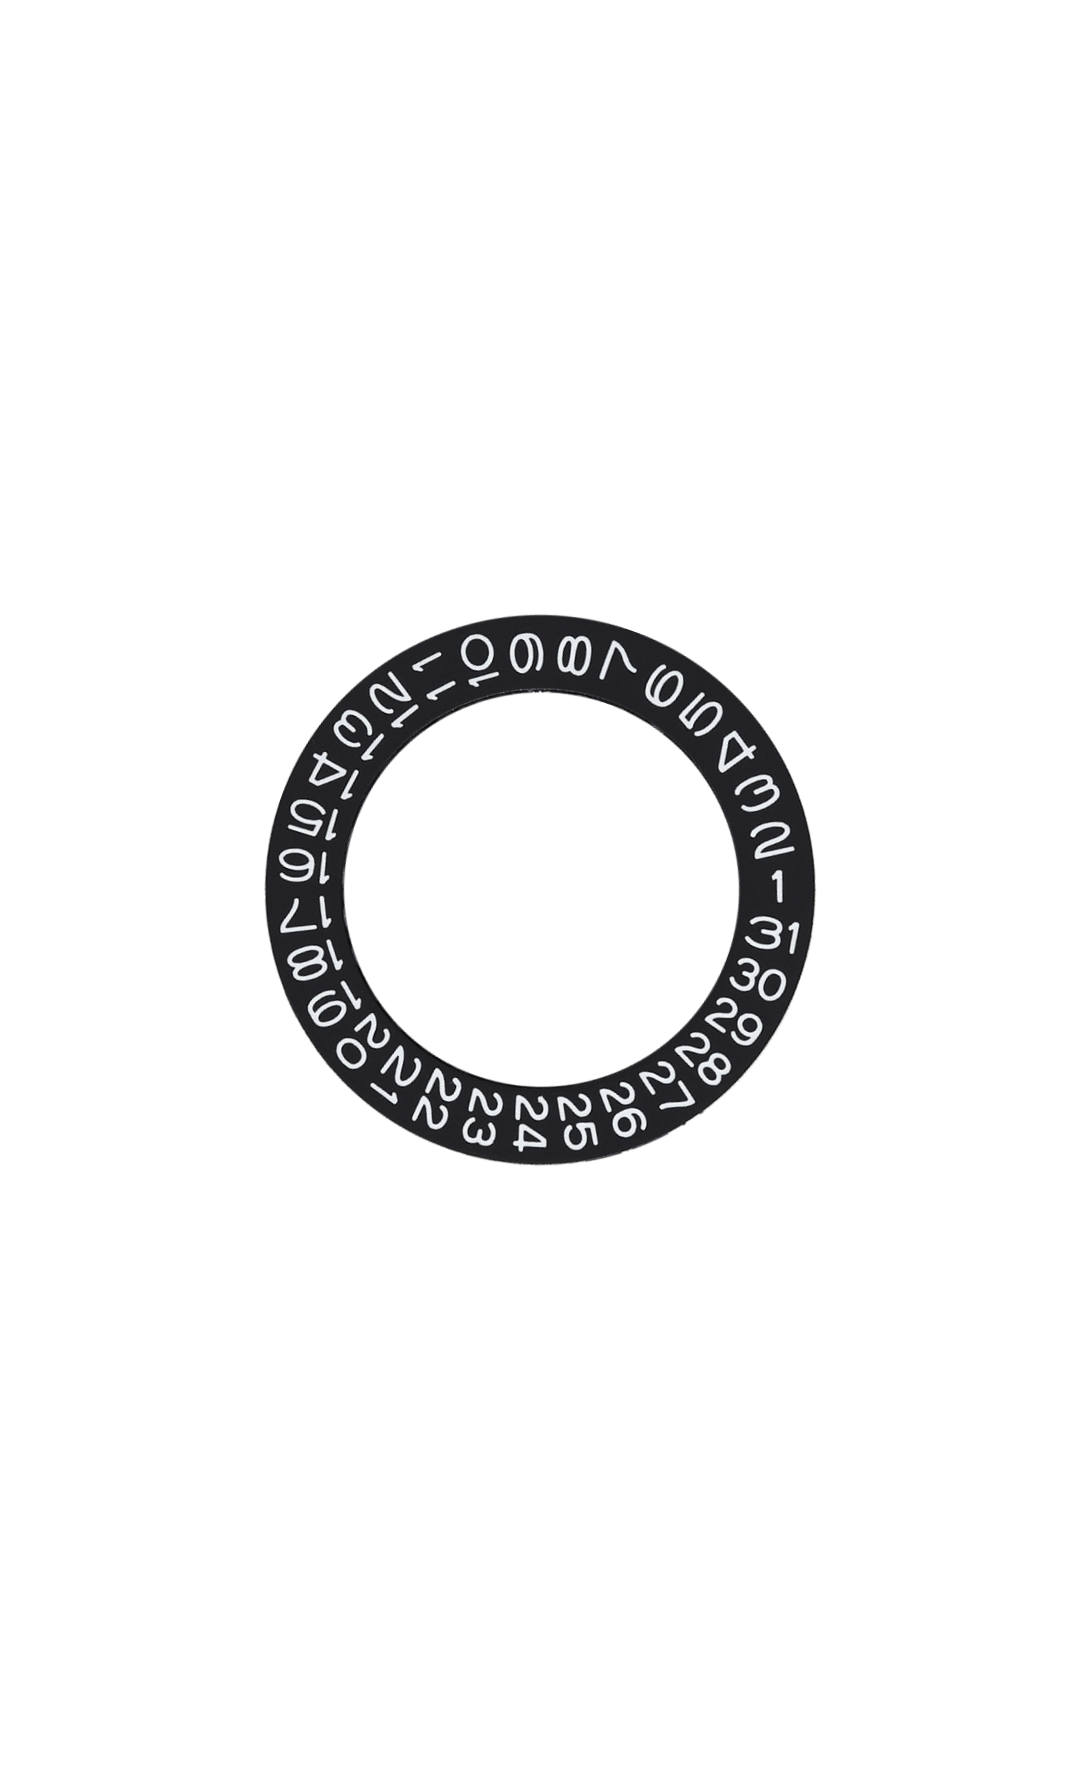
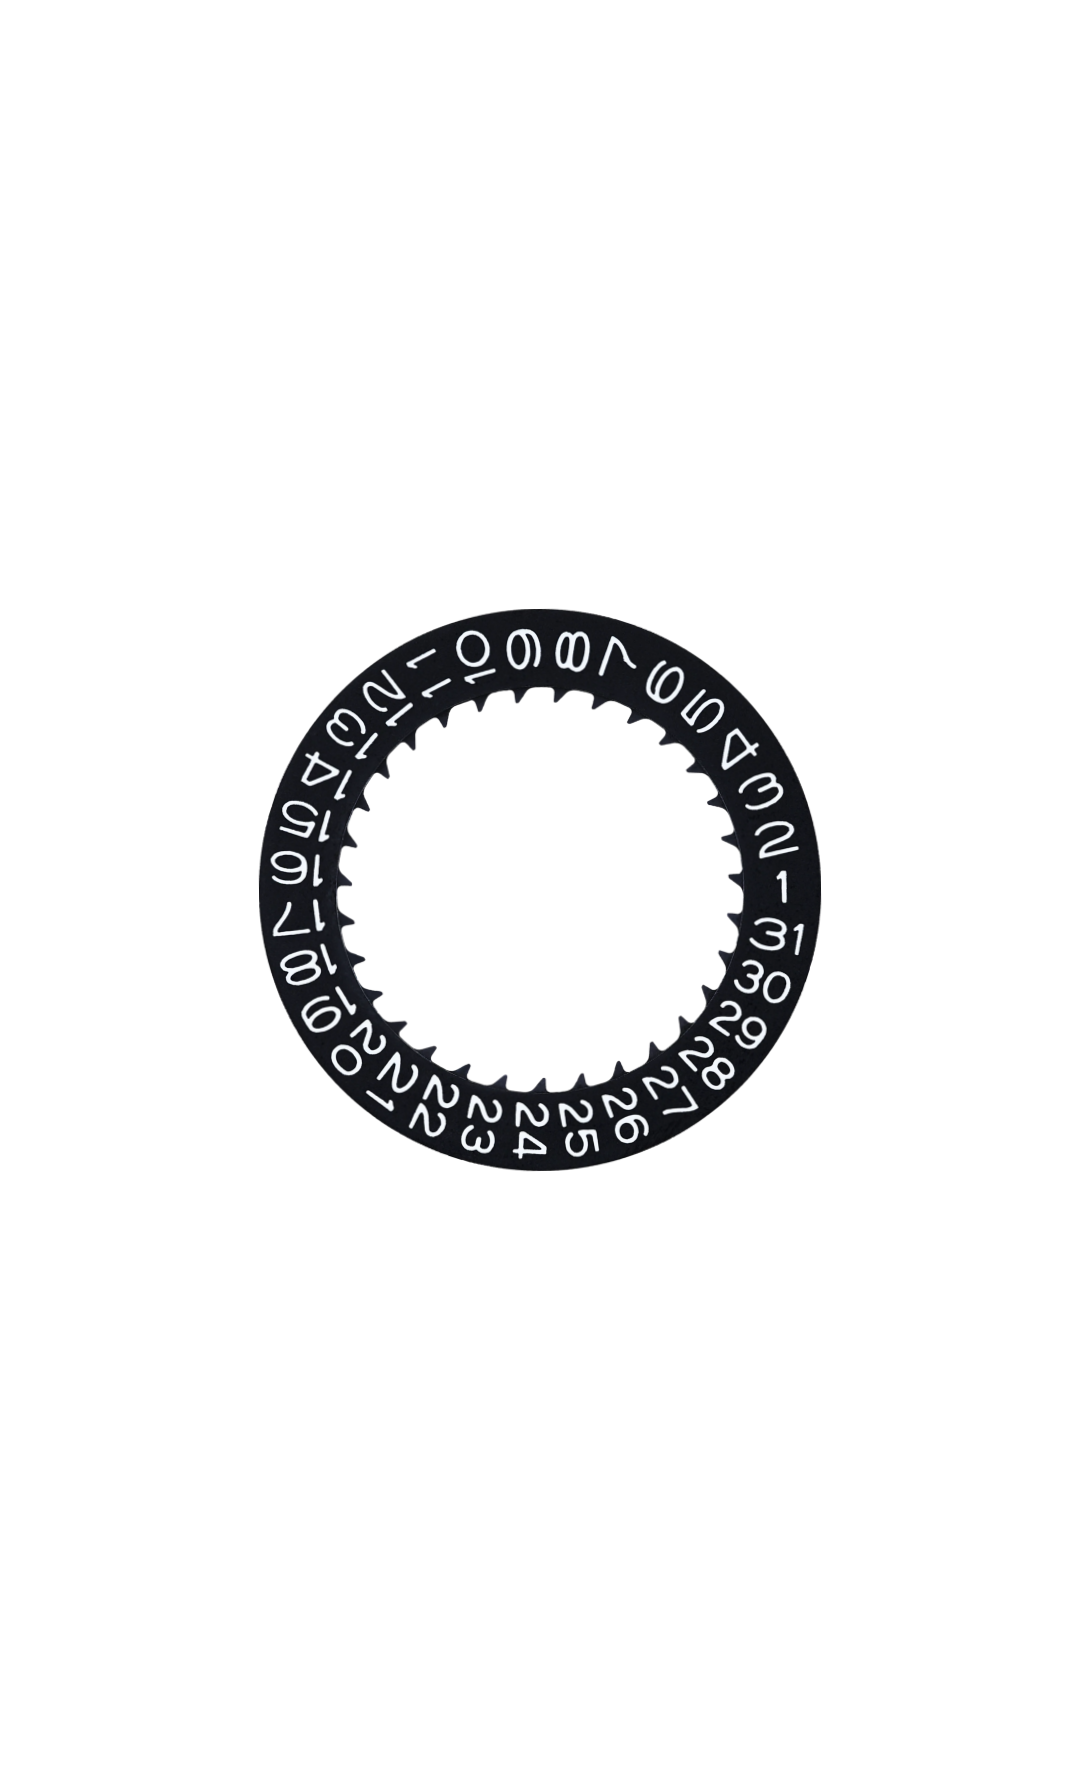
Added Marathon MSAR

Changed region(s): [[0.2139, 0.3399, 0.7639, 0.6798]]

diff --git a/js/draw.js b/js/draw.js
@@ -55,7 +55,7 @@ function watchSelect() {
 	var watch = document.getElementById("dropdown").value;
 	
 	//Spawn the components required to make the selected watch
-	if (watch == "submariner") {
+	if (watch == "marathon") {
 		date(watch);
 		face(watch);
 		faceLume(watch);
@@ -67,12 +67,39 @@ function watchSelect() {
 		secondLume(watch);
 		bezel(watch, 120);//Number of clicks per rotation
 		bezelLume(watch);
-		analogueTime(100);//Beat rate goes in here
+		analogueTime(125);//Beat rate goes in here
 		//3Hz = 21600vph:  1000ms (1 sec) / 6 (degrees each tick (21600/60)/60=6) = analogueTime(166.66667)
 		//4Hz = 28800vph:  1000ms (1 sec) / 8 (degrees each tick (28800/60)/60=8) = analogueTime(125)
 		//5Hz = 36000vph:  1000ms (1 sec) / 10 (degrees each tick (28800/60)/60=8) = analogueTime(100)
 		//vph from Hz: (Hz * 2) * 3600 (seconds in an hour) = vph
 		//analogueTime() from vph: 1000 (ms in 1 sec) / ((vph / 60) / 60) = analogueTime()
+	}
+	else if (watch == "marathonmod") {
+		date(watch);
+		face(watch);
+		faceLume(watch);
+		hour(watch);
+		hourLume(watch);
+		minute(watch);
+		minuteLume(watch);
+		second(watch);
+		secondLume(watch);
+		bezel(watch, 120);//Number of clicks per rotation
+		bezelLume(watch);
+		analogueTime(125);//Beat rate goes in here
+	}
+	else if (watch == "submariner") {
+		face(watch);
+		faceLume(watch);
+		hour(watch);
+		hourLume(watch);
+		minute(watch);
+		minuteLume(watch);
+		second(watch);
+		secondLume(watch);
+		bezel(watch, 120);//Number of clicks per rotation
+		bezelLume(watch);
+		analogueTime(100);//Beat rate goes in here
 	}
 	else if (watch == "westerland") {
 		face(watch);

diff --git a/index.htm b/index.htm
@@ -11,6 +11,8 @@
 <div class="menu">
 	<div>
 		<select id="dropdown">
+			<option value="marathon">Marathon MSAR Auto</option>
+			<option value="marathonmod">Marathon MSAR Auto (Max Lume)</option>
 			<option value="submariner">Rolex Submariner</option>
 			<option value="westerland">Laco Westerland (A-Uhr)</option>
 			<option value="dortmund">Laco Dortmund (B-Uhr)</option>
